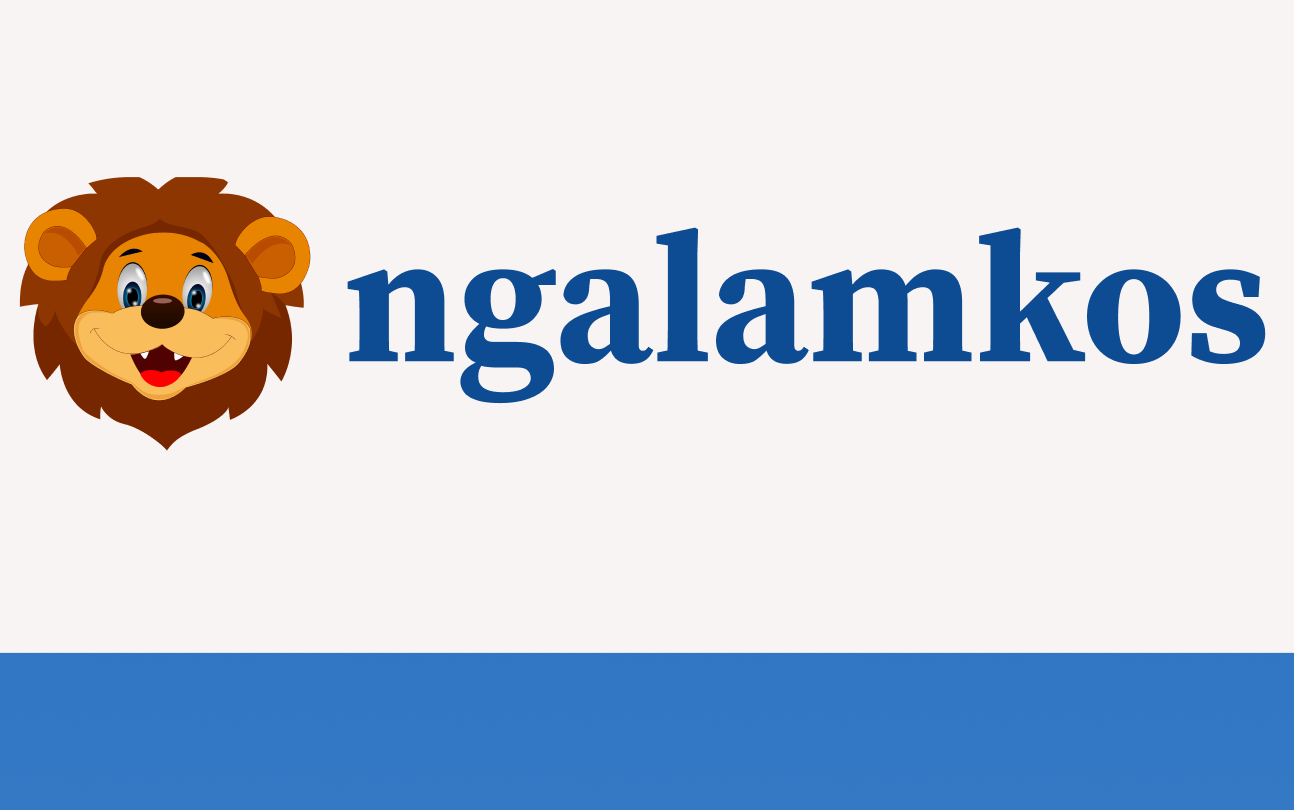
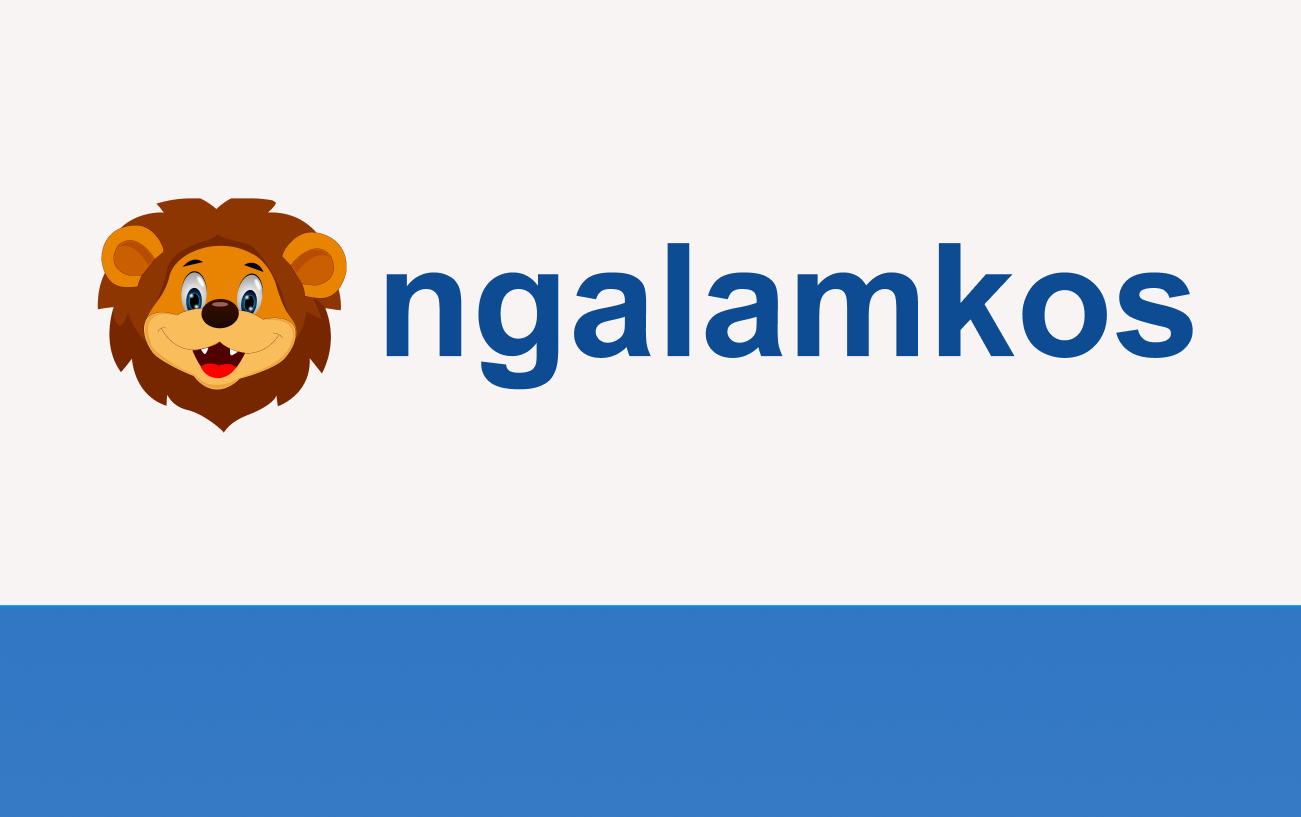
update index-contact-about

Changed region(s): [[0.0, 0.216, 0.9892, 0.5556], [0.0, 0.7407, 1.0, 0.8333]]

diff --git a/about.html b/about.html
@@ -73,13 +73,13 @@
               <span class="navbar-toggler-icon"></span>
               <span class="lin-menu"></span>
             </button>
-            <a class="navbar-brand" href="index.html"><img src="assets/img/logo.png" alt=""></a>
+            <a class="navbar-brand" href="index.html"><img src="assets/img/logo2.png" alt=""></a>
           </div>
 
           <div class="collapse navbar-collapse" id="main-navbar">
             <ul class="navbar-nav mr-auto w-100 justify-content-center">
               <li class="nav-item dropdown">
-                <a class="nav-link dropdown-toggle" href="#" data-toggle="dropdown" aria-haspopup="true" aria-expanded="false">
+                <a class="nav-link dropdown-toggle" href="index.html" data-toggle="dropdown" aria-haspopup="true" aria-expanded="false">
                   Home <i class="fa fa-angle-down"></i>
                 </a>
               </li>
@@ -88,7 +88,7 @@
                   Pusat Bantuan <i class="fa fa-angle-down"></i>
                 </a>
                 <div class="dropdown-menu">
-                  <a class="dropdown-item" href="blog.html">Info Umum</a>
+                  <a class="dropdown-item" href="about.html">Info Umum</a>
                   <a class="dropdown-item" href="single-blog.html">Syarat & Ketentuan</a>
                   <a class="dropdown-item" href="single-blog.html">Hubungi Kami</a>
                 </div>
@@ -102,7 +102,7 @@
             <div class="search-add float-right">
               <form method="post">
                 <div class="form-group">
-                    <input type="search" name="field-name" value="" placeholder="Search Here" required="">
+                    <input type="search" name="field-name" value="" placeholder="Cari Lokasi" required="">
                     <button type="submit" class="search-btn"><span class="lni-search"></span></button>
                 </div>
               </form>
@@ -142,7 +142,7 @@
       <div class="page-banner-title">
         <div class="text-center">
           <h2>About Us</h2>
-          <a href="#"><i class="lni-home"></i> Home</a>
+          <a href="index.html"><i class="lni-home"></i> Home</a>
           <span class="crumbs-spacer"><i class="lni-chevron-right"></i></span>
           <span class="current">About Us</span>
         </div>
@@ -270,197 +270,6 @@
     </section>
     <!-- Testimonial Section End -->
 
-    <!-- Team Section Start -->
-    <section id="team" class="section-padding text-center">
-      <div class="container">
-        <div class="row">
-          <div class="col-12">
-            <div class="section-title-header text-center">
-              <h2 class="section-title">Our Agents</h2>
-              <p>Duis aute irure dolor in reprehed in volupted velit esse dolore</p>
-            </div>
-          </div>
-        </div>
-        <div class="row">
-          <div class="col-sm-6 col-md-6 col-lg-3">
-            <!-- Team Item Starts -->
-            <div class="team-item text-center">
-              <div class="team-img">
-                <img class="img-fluid" src="assets/img/team/team-01.jpg" alt="">
-                <div class="team-overlay">
-                  <div class="overlay-social-icon text-center">
-                    <ul class="social-icon-team">
-                      <li><a href="#"><i class="lni-facebook-filled" aria-hidden="true"></i></a></li>
-                      <li><a href="#"><i class="lni-twitter-filled" aria-hidden="true"></i></a></li>
-                      <li><a href="#"><i class="lni-instagram-filled" aria-hidden="true"></i></a></li>
-                      <li><a href="#"><i class="lni-linkedin-filled" aria-hidden="true"></i></a></li>
-                    </ul>
-                  </div>
-                </div>
-              </div>
-              <div class="info-text">
-                <h3><a href="#">David Givens</a></h3>
-                <p>Real Estate Agent</p>
-              </div>
-            </div>
-            <!-- Team Item Ends -->
-          </div>
-          <div class="col-sm-6 col-md-6 col-lg-3">
-            <!-- Team Item Starts -->
-            <div class="team-item text-center">
-              <div class="team-img">
-                <img class="img-fluid" src="assets/img/team/team-02.jpg" alt="">
-                <div class="team-overlay">
-                  <div class="overlay-social-icon text-center">
-                    <ul class="social-icon-team">
-                      <li><a href="#"><i class="lni-facebook-filled" aria-hidden="true"></i></a></li>
-                      <li><a href="#"><i class="lni-twitter-filled" aria-hidden="true"></i></a></li>
-                      <li><a href="#"><i class="lni-instagram-filled" aria-hidden="true"></i></a></li>
-                      <li><a href="#"><i class="lni-linkedin-filled" aria-hidden="true"></i></a></li>
-                    </ul>
-                  </div>
-                </div>
-              </div>
-              <div class="info-text">
-                <h3><a href="#">John Doe</a></h3>
-                <p>Real Estate Agent</p>
-              </div>
-            </div>
-            <!-- Team Item Ends -->
-          </div>
-
-          <div class="col-sm-6 col-md-6 col-lg-3">
-            <!-- Team Item Starts -->
-            <div class="team-item text-center">
-              <div class="team-img">
-                <img class="img-fluid" src="assets/img/team/team-03.jpg" alt="">
-                <div class="team-overlay">
-                  <div class="overlay-social-icon text-center">
-                    <ul class="social-icon-team">
-                      <li><a href="#"><i class="lni-facebook-filled" aria-hidden="true"></i></a></li>
-                      <li><a href="#"><i class="lni-twitter-filled" aria-hidden="true"></i></a></li>
-                      <li><a href="#"><i class="lni-instagram-filled" aria-hidden="true"></i></a></li>
-                      <li><a href="#"><i class="lni-linkedin-filled" aria-hidden="true"></i></a></li>
-                    </ul>
-                  </div>
-                </div>
-              </div>
-              <div class="info-text">
-                <h3><a href="#">Darrell S.Allen</a></h3>
-                <p>Real Estate Agent</p>
-              </div>
-            </div>
-            <!-- Team Item Ends -->
-          </div>
-
-          <div class="col-sm-6 col-md-6 col-lg-3">
-            <!-- Team Item Starts -->
-            <div class="team-item text-center">
-              <div class="team-img">
-                <img class="img-fluid" src="assets/img/team/team-04.jpg" alt="">
-                <div class="team-overlay">
-                  <div class="overlay-social-icon text-center">
-                    <ul class="social-icon-team">
-                      <li><a href="#"><i class="lni-facebook-filled" aria-hidden="true"></i></a></li>
-                      <li><a href="#"><i class="lni-twitter-filled" aria-hidden="true"></i></a></li>
-                      <li><a href="#"><i class="lni-instagram-filled" aria-hidden="true"></i></a></li>
-                      <li><a href="#"><i class="lni-linkedin-filled" aria-hidden="true"></i></a></li>
-                    </ul>
-                  </div>
-                </div>
-              </div>
-              <div class="info-text">
-                <h3><a href="#">Justyna Michallek</a></h3>
-                <p>Real Estate Agent</p>
-              </div>
-            </div>
-            <!-- Team Item Ends -->
-          </div>
-        </div>
-      </div>
-    </section>
-    <!-- Team Section End -->
-
-    <!-- Counter Area Start-->
-    <section class="counter-section section-padding" data-stellar-background-ratio="0.5">
-      <div class="container">
-        <div class="row">
-          <!-- Counter Item -->
-          <div class="col-lg-3 col-md-6 col-xs-12 work-counter-widget text-center">
-            <div class="counter">
-              <div class="icon"><i class="lni-users"></i></div>
-              <div class="counterUp">6252</div>
-              <p>Happy Customers</p>
-            </div>
-          </div>
-          <!-- Counter Item -->
-          <div class="col-lg-3 col-md-6 col-xs-12 work-counter-widget text-center">
-            <div class="counter">
-              <div class="icon"><i class="lni-apartment"></i></div>
-              <div class="counterUp">3091</div>
-              <p>Completed Projects</p>
-            </div>
-          </div>
-          <!-- Counter Item -->
-          <div class="col-lg-3 col-md-6 col-xs-12 work-counter-widget text-center">
-            <div class="counter">
-              <div class="icon"><i class="lni-key"></i></div>
-               <div class="counterUp">1200</div>
-              <p>Property Sold</p>
-            </div>
-          </div>
-          <!-- Counter Item -->
-          <div class="col-lg-3 col-md-6 col-xs-12 work-counter-widget text-center">
-            <div class="counter">
-              <div class="icon"><i class="lni-cup"></i></div>
-              <div class="counterUp">79</div>
-              <p>Awards Win</p>
-            </div>
-          </div>
-        </div>
-      </div>
-    </section>
-    <!-- Counter Area End-->
-
-    <!-- Client Logo Section Start -->
-    <section id="clients-logo" class="section-padding">
-      <div class="container">
-        <div class="row">
-          <div class="col-lg-2 col-md-4 col-xs-12">
-            <div class="client-logo">
-              <a href="#"><img class="img-fluid" src="assets/img/clients/img1.png" alt=""></a>
-            </div>
-          </div>
-          <div class="col-lg-2 col-md-4 col-xs-12">
-            <div class="client-logo">
-              <a href="#"><img class="img-fluid" src="assets/img/clients/img2.png" alt=""></a>
-            </div>
-          </div>
-          <div class="col-lg-2 col-md-4 col-xs-12">
-            <div class="client-logo">
-              <a href="#"><img class="img-fluid" src="assets/img/clients/img3.png" alt=""></a>
-            </div>
-          </div>
-          <div class="col-lg-2 col-md-4 col-xs-12">
-            <div class="client-logo">
-              <a href="#"><img class="img-fluid" src="assets/img/clients/img4.png" alt=""></a>
-            </div>
-          </div>
-          <div class="col-lg-2 col-md-4 col-xs-12">
-            <div class="client-logo">
-              <a href="#"><img class="img-fluid" src="assets/img/clients/img5.png" alt=""></a>
-            </div>
-          </div>
-          <div class="col-lg-2 col-md-4 col-xs-12">
-            <div class="client-logo">
-              <a href="#"><img class="img-fluid" src="assets/img/clients/img6.png" alt=""></a>
-            </div>
-          </div>
-        </div>
-      </div>
-    </section>
-    <!-- Cleint Logo Section End -->
-    
     <!-- Footer Section Start -->
     <footer id="footer" class="footer-area section-padding">
       <div class="container">

diff --git a/index.html b/index.html
@@ -83,7 +83,7 @@
           <div class="collapse navbar-collapse" id="main-navbar">
             <ul class="navbar-nav mr-auto w-100 justify-content-center">
               <li class="nav-item dropdown">
-                <a class="nav-link dropdown-toggle" href="#" data-toggle="dropdown" aria-haspopup="true" aria-expanded="false">
+                <a class="nav-link dropdown-toggle" href="index.html" data-toggle="dropdown" aria-haspopup="true" aria-expanded="false">
                   Home <i class="fa fa-angle-down"></i>
                 </a>
               </li>
@@ -92,7 +92,7 @@
                   Pusat Bantuan <i class="fa fa-angle-down"></i>
                 </a>
                 <div class="dropdown-menu">
-                  <a class="dropdown-item" href="blog.html">Info Umum</a>
+                  <a class="dropdown-item" href="about.html">Info Umum</a>
                   <a class="dropdown-item" href="single-blog.html">Syarat & Ketentuan</a>
                   <a class="dropdown-item" href="single-blog.html">Hubungi Kami</a>
                 </div>
@@ -175,9 +175,6 @@
                     <a class="hover-effect" href="property.html">
                       <img class="img-fluid" src="assets/img/property/house-1.jpg" alt="">
                     </a>
-                    <div class="label-inner">
-                      <span class="label-status label bg-red">For Sale</span>
-                    </div>
                   </div>
                   <div class="item-body">
                     <h3 class="property-title"><a href="property.html">Amazing oceanfront apartment</a></h3>
@@ -201,9 +198,6 @@
                     <a class="hover-effect" href="property.html">
                       <img class="img-fluid" src="assets/img/property/house-2.jpg" alt="">
                     </a>
-                    <div class="label-inner">
-                      <span class="label-status label">For Rent</span>
-                    </div>
                   </div>
                   <div class="item-body">
                     <h3 class="property-title"><a href="property.html">Family Condo</a></h3>
@@ -227,9 +221,6 @@
                     <a class="hover-effect" href="property.html">
                       <img class="img-fluid" src="assets/img/property/house-3.jpg" alt="">
                     </a>
-                    <div class="label-inner">
-                      <span class="label-status label bg-yellow">New</span>
-                    </div>
                   </div>
                   <div class="item-body">
                     <h3 class="property-title"><a href="property.html">Guaranteed modern home</a></h3>
@@ -253,9 +244,6 @@
                     <a class="hover-effect" href="property.html">
                       <img class="img-fluid" src="assets/img/property/house-4.jpg" alt="">
                     </a>
-                    <div class="label-inner">
-                      <span class="label-status label">For Rent</span>
-                    </div>
                   </div>
                   <div class="item-body">
                     <h3 class="property-title"><a href="property.html">Family home for sale</a></h3>
@@ -279,9 +267,6 @@
                     <a class="hover-effect" href="property.html">
                       <img class="img-fluid" src="assets/img/property/house-5.jpg" alt="">
                     </a>
-                    <div class="label-inner">
-                      <span class="label-status label bg-yellow">New</span>
-                    </div>
                   </div>
                   <div class="item-body">
                     <h3 class="property-title"><a href="property.html">Amazing oceanfront apartment</a></h3>
@@ -305,9 +290,6 @@
                     <a class="hover-effect" href="property.html">
                       <img class="img-fluid" src="assets/img/property/house-6.jpg" alt="">
                     </a>
-                    <div class="label-inner">
-                      <span class="label-status label bg-red">For Sale</span>
-                    </div>
                   </div>
                   <div class="item-body">
                     <h3 class="property-title"><a href="property.html">Luxury home for sale</a></h3>

diff --git a/contact.html b/contact.html
@@ -73,7 +73,7 @@
               <span class="navbar-toggler-icon"></span>
               <span class="lin-menu"></span>
             </button>
-            <a class="navbar-brand" href="index.html"><img src="assets/img/logo.png" alt=""></a>
+            <a class="navbar-brand" href="index.html"><img src="assets/img/logo2.png" alt=""></a>
           </div>
 
           <div class="collapse navbar-collapse" id="main-navbar">
@@ -88,7 +88,7 @@
                   Pusat Bantuan <i class="fa fa-angle-down"></i>
                 </a>
                 <div class="dropdown-menu">
-                  <a class="dropdown-item" href="blog.html">Info Umum</a>
+                  <a class="dropdown-item" href="about.html">Info Umum</a>
                   <a class="dropdown-item" href="single-blog.html">Syarat & Ketentuan</a>
                   <a class="dropdown-item" href="single-blog.html">Hubungi Kami</a>
                 </div>
@@ -102,7 +102,7 @@
             <div class="search-add float-right">
               <form method="post">
                 <div class="form-group">
-                    <input type="search" name="field-name" value="" placeholder="Search Here" required="">
+                    <input type="search" name="field-name" value="" placeholder="Cari Lokasi" required="">
                     <button type="submit" class="search-btn"><span class="lni-search"></span></button>
                 </div>
               </form>
@@ -142,7 +142,7 @@
       <div class="page-banner-title">
         <div class="text-center">
           <h2>Contact Us</h2>
-          <a href="#"><i class="lni-home"></i> Home</a>
+          <a href="index.html"><i class="lni-home"></i> Home</a>
           <span class="crumbs-spacer"><i class="lni-chevron-right"></i></span>
           <span class="current">Contact Us</span>
         </div>
